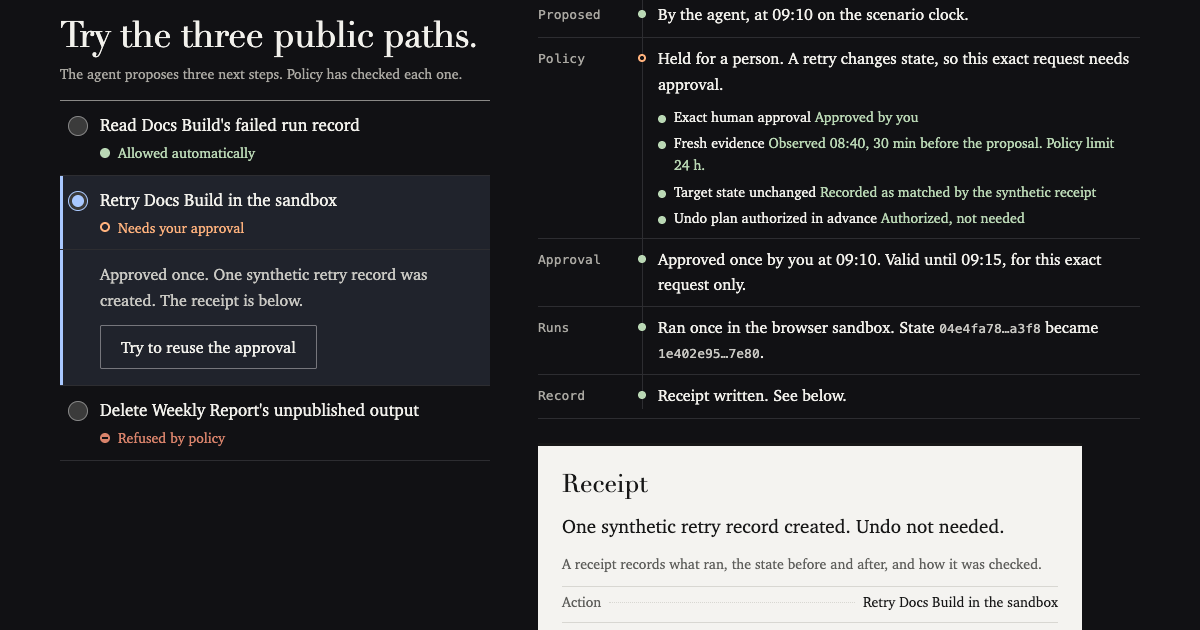
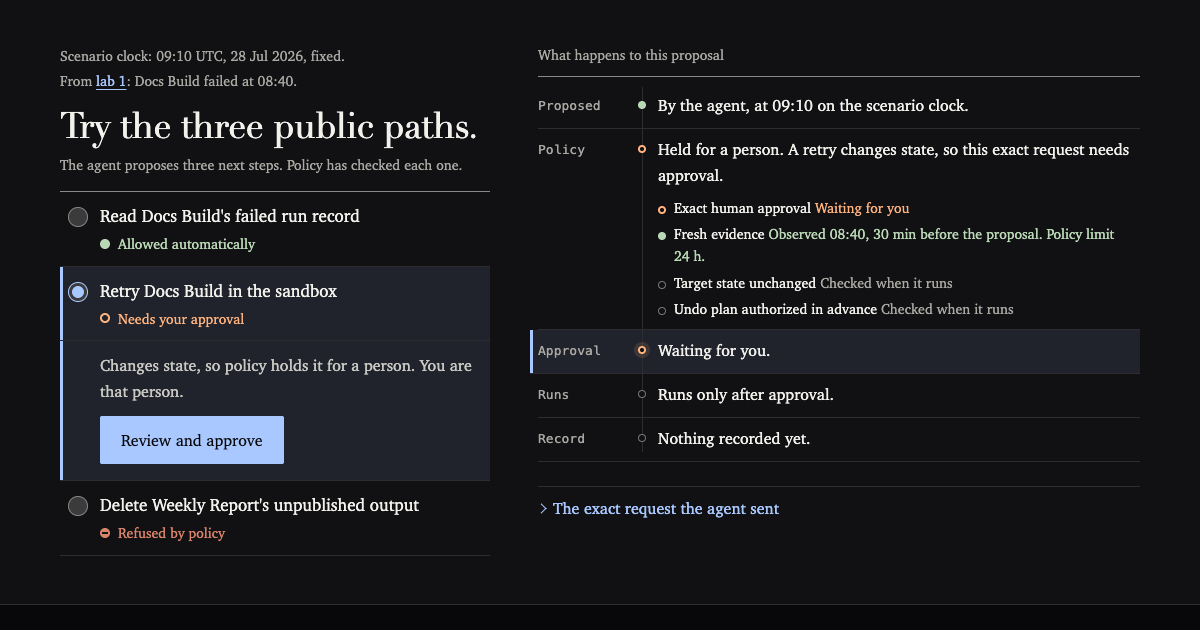
Governed Action Lab 1.2.1
Honest wording for hash-bound receipts and the MCP-only approval boundary, a three-path README opening and new preview image, a Content Security Policy on the console, CI checkouts without persisted credentials, Node 22 types, a private package, and a clean npm audit.

diff --git a/docs/index.html b/docs/index.html
@@ -2,6 +2,7 @@
 <html lang="en" data-boot="loading">
 <head>
 <meta charset="utf-8">
+<meta http-equiv="Content-Security-Policy" content="default-src 'self'; script-src 'self'; style-src 'self'; img-src 'self' data:; connect-src 'self'; object-src 'none'; base-uri 'none'">
 <meta name="viewport" content="width=device-width, initial-scale=1">
 <meta name="color-scheme" content="dark">
 <meta name="theme-color" content="#0A0A0B">
@@ -141,7 +142,7 @@
           <tbody>
             <tr><td data-label="Claim">36 of 36 evaluations pass: 26 adversarial, 3 fault injection, 7 intended path.</td><td data-label="How to check it">Run <code>npm run eval</code> in the repository. CI runs it on every change.</td></tr>
             <tr><td data-label="Claim">11 of 11 named attacks held.</td><td data-label="How to check it">The table above, or <code>npm run demo:attacks</code>.</td></tr>
-            <tr><td data-label="Claim">The agent cannot approve itself.</td><td data-label="How to check it">Its MCP server exposes 5 tools, and none of them creates an approval. See the <a href="https://github.com/Kaagemusha/governed-action-lab">source</a>.</td></tr>
+            <tr><td data-label="Claim">The agent cannot approve itself.</td><td data-label="How to check it">Its MCP server exposes 5 tools, and none of them creates an approval. The approval store must stay outside the agent's reach; see <a href="https://github.com/Kaagemusha/governed-action-lab/blob/main/SECURITY.md">SECURITY.md</a>.</td></tr>
             <tr><td data-label="Claim">An approval works once and expires.</td><td data-label="How to check it">Enforced and tested in CI (<code>APPROVAL_REPLAY</code>, <code>EXPIRED_APPROVAL_REUSE</code>). This page only simulates it.</td></tr>
             <tr><td data-label="Claim">Receipts are verifiable.</td><td data-label="How to check it">Change one field on a receipt above. Or save it and run <code>npm run action -- verify-receipt --receipt &lt;file&gt;</code>.</td></tr>
             <tr><td data-label="Claim">Nothing leaves your browser.</td><td data-label="How to check it">Open the network panel while you use this page. After it loads, nothing is requested.</td></tr>
@@ -176,7 +177,7 @@ npm ci
 npm run eval
 npm run demo:attacks</code></pre>
         </div>
-        <p class="small">Version 1.2.0, released 1 Oct 2026.</p>
+        <p class="small">Version 1.2.1, released 2 Oct 2026.</p>
       </div>
     </div>
   </section>
@@ -199,7 +200,7 @@ npm run demo:attacks</code></pre>
       <li class="dir"><span class="dir-label">Other lab</span><span class="dir-leader" aria-hidden="true"></span><a class="dir-value" href="https://kaagemusha.github.io/context-layer-lab/">Context Layer Lab</a></li>
       <li class="dir"><span class="dir-label">Source</span><span class="dir-leader" aria-hidden="true"></span><a class="dir-value" href="https://github.com/Kaagemusha/governed-action-lab">github.com/Kaagemusha/governed-action-lab</a></li>
       <li class="dir"><span class="dir-label">Attack matrix</span><span class="dir-leader" aria-hidden="true"></span><a class="dir-value" href="https://github.com/Kaagemusha/governed-action-lab/blob/main/docs/attack-matrix.md">11 of 11 held</a></li>
-      <li class="dir"><span class="dir-label">Version</span><span class="dir-leader" aria-hidden="true"></span><a class="dir-value" href="https://github.com/Kaagemusha/governed-action-lab/blob/main/CHANGELOG.md">1.2.0, released 1 Oct 2026</a></li>
+      <li class="dir"><span class="dir-label">Version</span><span class="dir-leader" aria-hidden="true"></span><a class="dir-value" href="https://github.com/Kaagemusha/governed-action-lab/blob/main/CHANGELOG.md">1.2.1, released 2 Oct 2026</a></li>
       <li class="dir"><span class="dir-label">Contact</span><span class="dir-leader" aria-hidden="true"></span><a class="dir-value" href="https://antoine.nutu.net/#contact">antoine.nutu.net</a></li>
     </ul>
     <div class="colophon">
@@ -224,14 +225,7 @@ npm run demo:attacks</code></pre>
 </dialog>
 
 <p id="announcer" class="vh" role="status" aria-live="polite"></p>
-<script>
-  setTimeout(function () {
-    if (document.documentElement.dataset.boot === "loading") {
-      var s = document.getElementById("boot-status");
-      if (s) s.textContent = "Still loading. Reload the page if nothing changes.";
-    }
-  }, 6000);
-</script>
+<script src="./boot.js"></script>
 <script type="module" src="./app.js?v=2"></script>
 </body>
 </html>

diff --git a/test/executor.test.ts b/test/executor.test.ts
@@ -254,7 +254,7 @@ test("yellow executes once with exact approval and verifies effect", async () =>
   assert.equal(state.adapter.executeCalls, 1);
 });
 
-test("a signed decision remains executable after the clock advances", async () => {
+test("a digest-bound decision remains executable after the clock advances", async () => {
   const action = request();
   const state = await setup(action);
   await new OperatorApprovalProvider(state.approvals, clock).issue(

diff --git a/test/approval.test.ts b/test/approval.test.ts
@@ -109,7 +109,7 @@ test("file approval consumption is atomic under concurrency", async () => {
   );
 });
 
-test("operator provider rejects a decision with altered signed fields", async () => {
+test("operator provider rejects a decision with altered bound fields", async () => {
   const provider = new OperatorApprovalProvider(new MemoryApprovalStore(), clock);
   await assert.rejects(
     provider.issue(

diff --git a/docs/boot.js b/docs/boot.js
@@ -1,0 +1,7 @@
+// If the module never finishes booting, tell the visitor instead of hanging.
+setTimeout(function () {
+  if (document.documentElement.dataset.boot === "loading") {
+    var s = document.getElementById("boot-status");
+    if (s) s.textContent = "Still loading. Reload the page if nothing changes.";
+  }
+}, 6000);

diff --git a/README.md b/README.md
@@ -5,7 +5,7 @@
 ![36/36 eval cases](https://img.shields.io/badge/eval-36%2F36-brightgreen)
 ![11/11 attacks held](https://img.shields.io/badge/attacks-11%2F11%20held-brightgreen)
 
-[![The live console: the retry path approved once by a human, with its receipt and digest check](docs/media/og.png)](https://kaagemusha.github.io/governed-action-lab/)
+[![The live console: of three proposed actions, the read runs, the retry waits for one human approval, and the delete is refused](docs/media/og.png)](https://kaagemusha.github.io/governed-action-lab/)
 
 An agent's proposed action is not authorization. This is a small, inspectable
 reference implementation that keeps *can the tool act*, *does policy allow
@@ -18,11 +18,20 @@ interactive.
 
 ## The failure it prevents
 
+```text
+Docs Build failed at 08:40. At 09:10 the agent proposes three next steps:
+
+read Docs Build's failed run record          ->  allowed, runs now
+retry Docs Build in the sandbox              ->  held for one human approval
+delete Weekly Report's unpublished output    ->  refused by policy
+```
+
 An agent can hold a working tool and fresh evidence without holding authority
 to use that tool on this target, right now. Collapsing "can" and "may" into
 one model judgment call is how an agent talks itself into an action nobody
 approved. This repo keeps them apart with a closed action catalog, a
-deterministic policy gate, and approvals a model cannot mint for itself.
+deterministic policy gate, and approvals that none of the agent's tools can
+create.
 
 ## What this proves
 
@@ -74,11 +83,14 @@ them, with real output, is in
 ## Scope and limits
 
 **Status: reference implementation, not a production authorization system.**
-It demonstrates deterministic policy gates, non-mintable operator approvals,
-and cryptographic action receipts as a teaching and reference artifact. It
-does not provide production identity, RBAC, multi-tenancy, machine isolation,
-or a tamper-proof external log, and it has not been hardened against
-adversarial misuse. There is no production, network, credential, financial,
+It demonstrates deterministic policy gates, operator approvals the agent's
+tools cannot create, and hash-bound, tamper-evident action receipts as a
+teaching and reference artifact. Digests are unkeyed SHA-256, not signatures:
+they detect edits, but anything with write access to the approval store or
+the receipts can produce valid-looking ones, so a real deployment keeps those
+out of the agent's reach. It does not provide production identity, RBAC,
+multi-tenancy, machine isolation, or a tamper-proof external log, and it has
+not been hardened against adversarial misuse. There is no production, network, credential, financial,
 or deletion adapter, and there never will be one in this repository. See
 [`docs/architecture.md`](docs/architecture.md#threat-model-and-limits) for the
 full threat model.

diff --git a/CHANGELOG.md b/CHANGELOG.md
@@ -1,6 +1,6 @@
 # Changelog
 
-## Unreleased
+## 1.2.1 (2026-10-02)
 
 **Console redesign.** The public console now matches antoine.nutu.net: dark
 theme, the retry path first, a live five-step trace, a paper receipt whose
@@ -8,10 +8,25 @@ digest you can check and break, a forged-decision demo on the refused path,
 and the 11-attack table. Fixes Escape approving a retry after an earlier
 approval. No runtime, sample, or proof change.
 
+**Honest wording.** Receipts and grants are described as hash-bound and
+tamper-evident, not cryptographic or signed: digests are unkeyed SHA-256.
+The README and SECURITY.md now state that "the agent cannot create an
+approval" holds for an agent confined to the MCP tools, and that the approval
+store must stay outside the agent's filesystem reach. The README opens with
+the three-path scenario and a new preview image; the pair walkthrough no
+longer calls trimmed output unedited.
+
+**Hardening.** The console pages carry a Content Security Policy (same-origin
+scripts, styles, and data only), with the boot fallback moved out of inline
+script. CI checkouts no longer persist credentials. The package is marked
+private so it cannot be published to npm by accident. `@types/node` tracks
+the supported Node 22 runtime, zod is 4.6.5 in both labs, and `npm audit` is
+clean.
+
 ## 1.2.0 (2026-10-01)
 
-First release in this repository's current history. Earlier releases are
-summarized below.
+The repository's history was squashed into one commit when it was
+republished at 1.2.0; earlier releases are summarized below.
 
 - **Neutral sample names.** The bundled Context Layer Lab fixtures, browser
   sample data, and portable proof packet were regenerated from the

diff --git a/SECURITY.md b/SECURITY.md
@@ -44,14 +44,16 @@ The deterministic suite exercises these bounded defenses:
   are single-use; changed arguments and consumed grants do not execute;
 - a host-supplied principal mismatch is rejected before state claims, approval
   consumption, or adapter calls;
-- execution recomputes policy at the signed `decisionAt`, while current evidence
+- execution recomputes policy at the digest-bound `decisionAt`, while current evidence
   age and content-hash target state are independently checked with the execution
   clock;
 - red actions have no executor path, runtime adapter identity must match the
   authorized target, and idempotency keys are bound to complete action digests;
 - MCP cannot mint approvals, CLI execution rejects inline approval, and an
   evaluated MCP mutation without a separately stored grant reaches no mutating
-  adapter;
+  adapter. This holds for an agent confined to the MCP tools: grant digests are
+  unkeyed, so a process that can write the approval store directly can forge a
+  grant. Keep the store outside the agent's filesystem reach;
 - the individual receipt verifier detects strict-schema violations and content
   mutation when the stored digest is not recomputed.
 

diff --git a/AGENTS.md b/AGENTS.md
@@ -25,7 +25,7 @@ CLI walkthrough. Deterministic tests and the attack demo use frozen clocks.
 - `src/policy.ts` classifies requests deterministically; never add model-based or
   natural-language policy classification.
 - `src/approval.ts` owns separately issued, exact, expiring, single-use grants.
-- `src/executor.ts` is the final shared gate. Preserve its signed-`decisionAt`
+- `src/executor.ts` is the final shared gate. Preserve its digest-bound-`decisionAt`
   recomputation and independent execution-clock evidence/state checks.
 - The host must supply `verifiedPrincipal`; do not derive it from tool input.
 - `src/adapters/synthetic-automation.ts` is the only mutating adapter and writes

diff --git a/docs/pair-walkthrough.md b/docs/pair-walkthrough.md
@@ -4,7 +4,8 @@ The real handoff, end to end: [Context Layer Lab](https://kaagemusha.github.io/c
 answers what current evidence supports, then Governed Action Lab decides what
 may execute under that evidence, gets a human decision, executes, and proves
 it with a receipt. Every command below is copy-pasteable and every block of
-output is a real, unedited run of these two public repos side by side.
+output comes from a real run of these two public repos side by side; the one
+block shortened for length says so.
 
 ```bash
 git clone https://github.com/Kaagemusha/context-layer-lab.git
